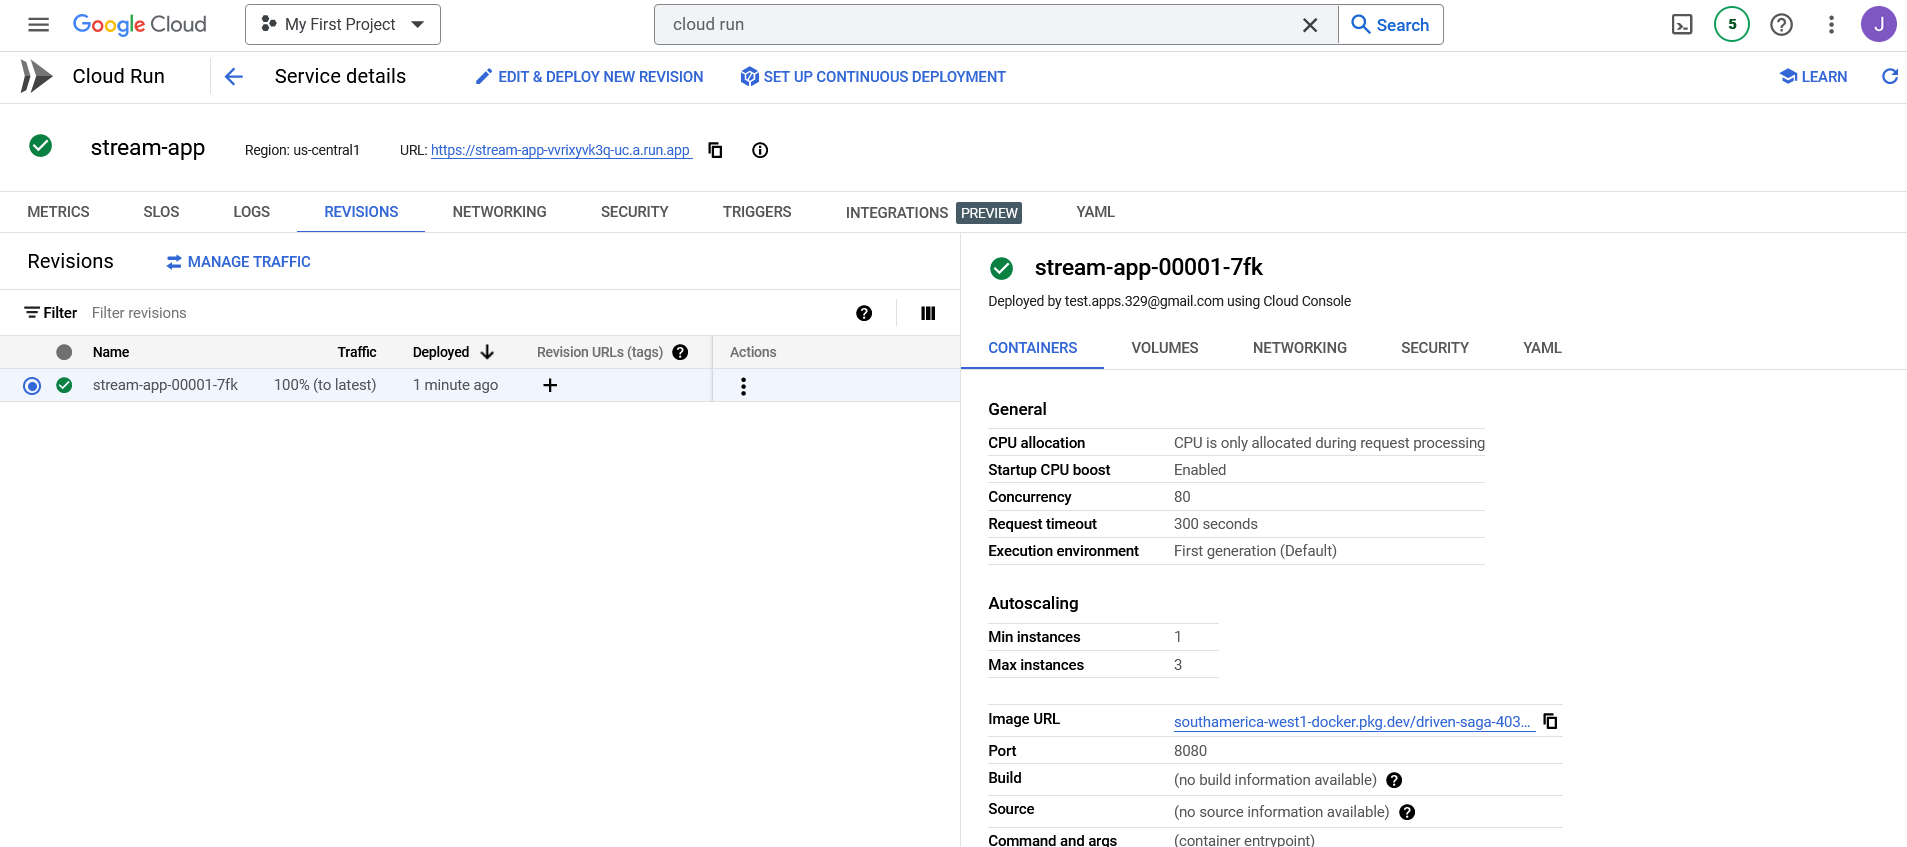
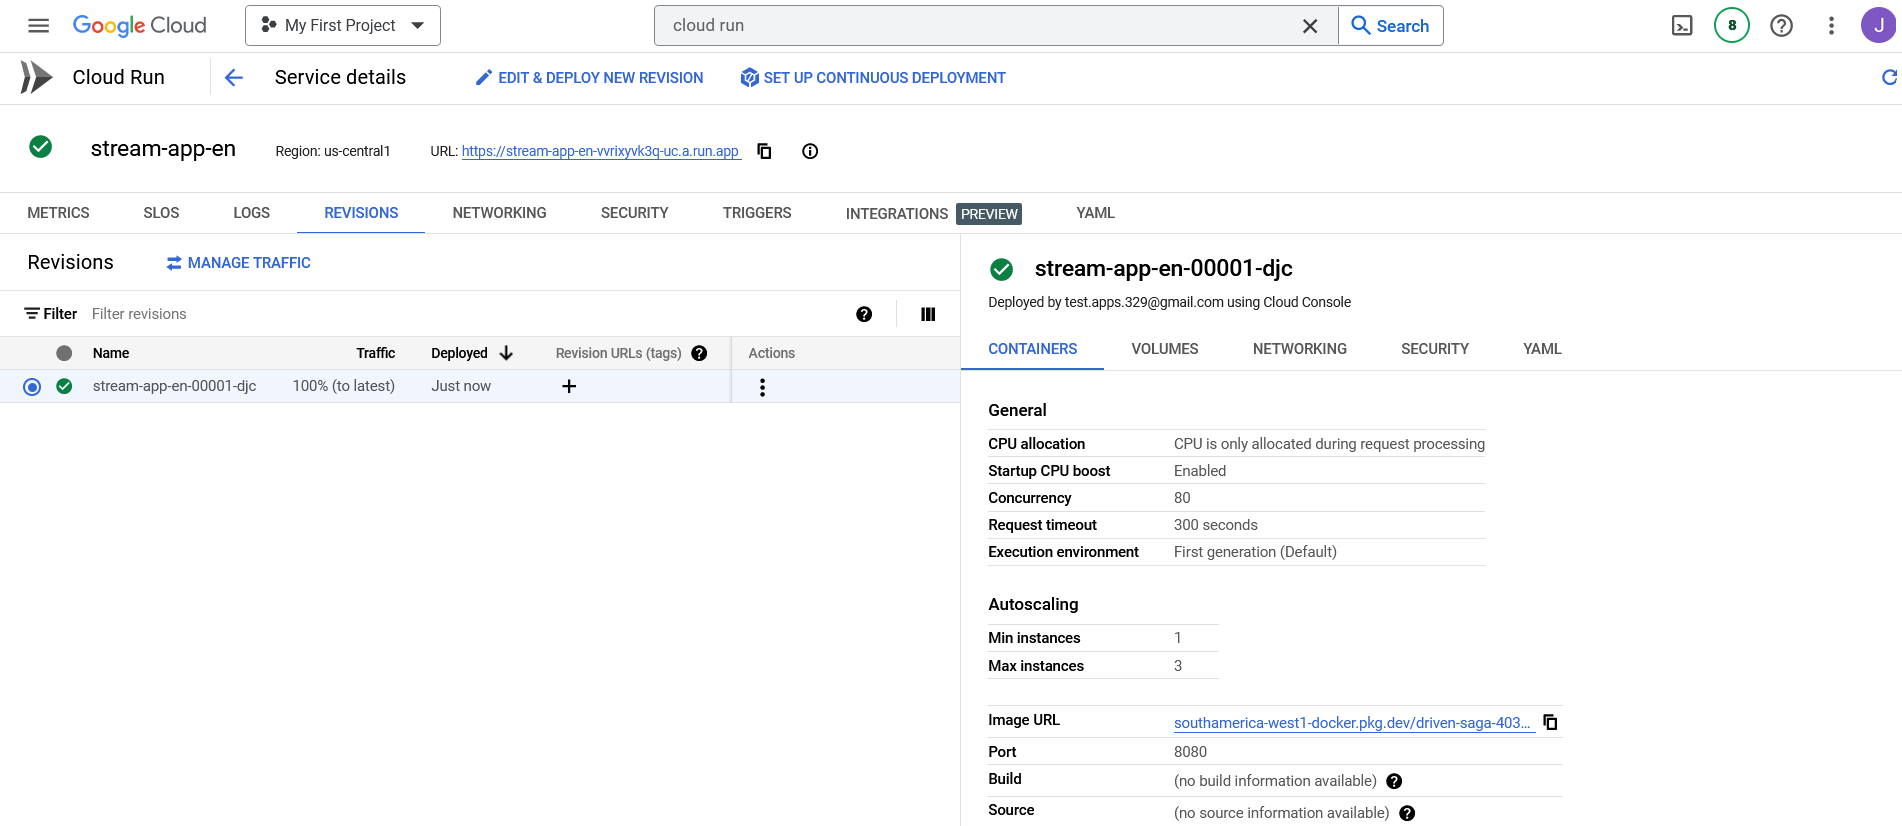
upgrade app and the readme

diff --git a/app_cloud_gcp_py.py b/app_cloud_gcp_py.py
@@ -13,36 +13,36 @@ st.set_page_config(layout="wide")
 
 
 with st.sidebar:
-    selected = menu.option_menu("Streamlit demo", ["Inicio","Analisis datos Austin Trips"], 
+    selected = menu.option_menu("Streamlit demo", ["Home","Austin Trips data analysis"], 
         icons=['house', 'person-rolodex'], menu_icon="cast", default_index=0)
     selected
 
-if selected == "Inicio":
-    st.title("Shiny app demo para ejecutarse en contenedor")
+if selected == "Home":
+    st.title("Streamlit app demo to deploy in Cloud Run")
 
     c=st.empty()
     c.image("docker_1.png")
 
-if selected == "Analisis datos Austin Trips":
+if selected == "Austin Trips data analysis":
     
             
        
-    if st.button("Carga"):
+    if st.button("Load"):
         df = pd.read_csv('trips_austin.csv')
         col1, col2 = st.columns(2)
-        col1.text("Datos del sistema de bicicletas de la ciudad de Austin")
+        col1.text("City of Austin Bike System Data")
         col1.dataframe(df.head(10))
 
         grouped_data = df.groupby('trip_id')['duration_minutes'].sum().reset_index()
         grouped_data = grouped_data.sort_values(by='duration_minutes', ascending=False)
         fig = px.bar(grouped_data, x='trip_id', y='duration_minutes')
-        col2.text("Grafico de la duracion de minutos de los viajes del sistema de bicicleta")
+        col2.text("Bicycle system trip minute duration graph")
         col2.plotly_chart(fig)    
 
         with st.container():
         
             porcentajes = grouped_data['duration_minutes']/grouped_data['duration_minutes'].sum()*100
             grouped_data['percentage'] = porcentajes
-            fig_pie = px.pie(grouped_data, names='trip_id', values='percentage', title='Gráfico de Torta')
-            st.text("Grafico de la duracion de minutos de los viajes del sistema de bicicleta")
+            fig_pie = px.pie(grouped_data, names='trip_id', values='percentage', title='Pie Chart')
+            st.text("Bicycle system trip minute duration graph")
             st.plotly_chart(fig_pie) 

diff --git a/README.md b/README.md
@@ -1,13 +1,12 @@
-# Streamlit_app_docker
+# Streamlit_app_docker_en
 
-Este es un tutorial para ejecutar Streamlit-apps en el servicio Cloud Run de **Google Cloud Platform(GCP)**.Para desplegar una Streamlit-app se utilizaran imagenes docker,la cual primero se testea de forma local y luego se migra al entorno cloud.En este tutorial se asume que ya tienes instalada Docker,sin embargo a continuación te dejo el enlace para la descarga de [Docker](https://www.docker.com/)
+This is a tutorial to run Streamlit-apps in the Cloud Run service of **Google Cloud Platform (GCP)**. To deploy a Streamlit-app, docker images will be used, which are first tested locally and then migrated to the cloud environment. This tutorial assumes that you already have Docker installed, however below I leave you the link to download [Docker](https://www.docker.com/)
 
+## Structure
 
-## Estructura
+The following project considers as main files and elements, the **Dockerfile** file, the **requirements.txt** file and **app_cloud_gcp_py.py**
 
-El siguiente proyecto considera como archivos y elementos principales,el archivo **Dockerfile**,el archivo **requirements.txt** y **app_cloud_gcp_py.py**
-
-El archivo Dockerfile sera con el que construiremos la imagen para luego desplegar en un contenedor,en cambio los otros archivos son necesarios para la ejecución de la Streamlit-app.
+The Dockerfile file will be the one with which we will build the image and then deploy it in a container, however the other files are necessary for the execution of the Streamlit-app.
 
 ``` docker
 - 📁 Streamlit_app_docker
@@ -30,9 +29,9 @@ El archivo Dockerfile sera con el que construiremos la imagen para luego despleg
 
 ### Dockerfile
 
-El archivo docker puede ser modificado segun el tipo de aplicación que
-se utilice.En este caso si deseas seguir trabajando con Streamlit-apps,y
-agregar otras features,puedes agregar las bibliotecas que vayas a utilizar en el **requirements.txt**.
+The docker file can be modified depending on the type of application
+be used.In this case if you want to continue working with Streamlit-apps,and
+add other features, you can add the libraries that you are going to use in the **requirements.txt**.
 
 ``` docker
 # app/Dockerfile
@@ -60,7 +59,7 @@ ENTRYPOINT ["streamlit", "run", "app_cloud_gcp_py.py", "--server.port=8080", "--
 
 ## Build
 
-Para construir la imagen docker llamada **stream_app**,se usa la siguiente linea.
+To build the docker image called **stream_app**, the following line is used.
 
 ``` docker
 docker build -t stream_app .
@@ -68,80 +67,80 @@ docker build -t stream_app .
 
 ## Run
 
-Una vez lista la imagen **stream_app**,ejecutamos la siguiente linea para ejecutar nuestra imagen dentro de un contenedor que tendra expuesto el puerto 8080.
+Once the **stream_app** image is ready, we execute the following line to run our image inside a container that will have port 8080 exposed.
 
 ``` docker
 docker run -d -p 8080:8080 stream_app 
 ```
-## Acceso al contenedor
+## Access to container
 
-Si todos los pasos anteriores se desarrollaron de forma correcta,el contenedor se debe estar ejecutando en la siguiente dirección.
+If all the previous steps were carried out correctly, the container should be running at the following address.
 
 [127.0.0.1:8080](http://127.0.0.1:8080)
 
 
-![Stream-shiny](image_app.png)
+![Stream-app](image_app.png)
 
-## Migrar imagen Docker
+## Push Image
 
-Para migrar la imagen ya construida,primero debemos habilitar el servicio Artifact Registry en Google Cloud Platform.Si lo habilitamos de forma correcta deberiamos ver la siguiente pantalla.
+To migrate the already built image, we must first enable the Artifact Registry service on Google Cloud Platform. If we enable it correctly we should see the following screen.
 
 ![artifact_rgistry_gcp](artifact_registry.png)
 
-Luego en este servicio debemos crear un repositorio,el cual puede ser creado desde la consola de GCP o desde el menu **Create Repository**.
+Then in this service we can create a repository, which can be created from the GCP console or from the **Create Repository** menu.
 
-![crear repositorio](create_repo.png)
+![Create repo](create_repo.png)
 
-Cuando creamos el repositorio elegimos el format como Docker,el mode como standard y la region en este caso la fijare en **southamerica-west1[Santiago]**.
+When we create the repository we choose the format as Docker, the mode as standard and the region in this case I will set it to **southamerica-west1[Santiago]**.
 
-Una vez creado el repositorio configuramos de forma local nuestro docker para poder hacer push o pull a las imagenes.
+Once the repository is created, we configure our docker locally to be able to push or pull the images.
 
 ``` dockerfile
 gcloud auth configure-docker southamerica-west1-docker.pkg.dev
 ```
 
-Luego tenemos que etiquetar a nuestra stream_app con la ruta del directorio del repositorio de imagenes en la nube.
+Then we have to tag our stream_app with the directory path of the cloud image repository.
 
 ``` dockerfile
 docker tag stream_app:latest southamerica-west1-docker.pkg.dev/driven-saga-403916/docker-repo/stream_app:latest
 ```
 
-Una vez etiquetada la imagen,le podemos dar a push a la imagen de nuestra app.
+Once the image has been tagged, we can push the image of our app.
 
 ``` dockerfile
 docker push southamerica-west1-docker.pkg.dev/driven-saga-403916/docker-repo/stream_app:latest
 ```
 
-Si la imagen fue cargada correctamente la podremos ver en el repositorio de Artifact Registry como se ve en la imagen.
+If the image was uploaded correctly we can see it in the Artifact Registry repository as seen in the image.
 
-![imagen en el repo docker](image_repo_docker.png)
+![Image in the Docker Repo](image_repo_docker.png)
 
-Como se ve en la imagen,hay 2 imagenes.La imagen stream_app es la que acabamos de subir,en cambio la que dice shiny_app,es la imagen de una app que subi anteriormente.
+As seen in the image, there are 2 images. The stream_app image is the one we just uploaded, however the one that says shiny_app is the image of an app that I uploaded previously.
 
-## Desplegar con Cloud Run
+## Deploy in Cloud Run
 
-Una vez accedemos al servicio Cloud Run,tenemos que crear un **servicio**, en donde se abrira el siguiente menu.
+Once we access the Cloud Run service, we have to create a **service**, where the following menu will open.
 
-![Configuracion cloud run](cloud_run_1.png)
+![Cloud Run Configuration](cloud_run_1.png)
 
-Desde el menu de configuracion del servicio tenemos que seleccionar en la primera opcion **Container image URL**,la ruta en donde se encuentra nuestra imagen en el repositorio,luego asignamos el **Service Name** y la **Region**.
+From the service configuration menu we have to select in the first option **Container image URL**, the path where our image is located in the repository, then we assign the **Service Name** and the **Region** .
 
-Mas abajo seleccionamos el valor de 1 en la opcion **Minimum number of instances**,para que el primer despliegue no sea tan lento.
+Below we select the value of 1 in the **Minimum number of instances** option, so that the first deployment is not so slow.
 
-Ademas en el menu **Authentication**,seleccionamos la opcion ***Allow unauthenticated invocations***
+Also in the **Authentication** menu, we select the option ***Allow unauthenticated invocations***
 
-Finalmente en el último modulo de configuracion seleccionamos el valor de 8080 en la opcion **Container port**,que corresponde al puerto asignamos en el dockerfile.
+Finally, in the last configuration module we select the value of 8080 in the **Container port** option, which corresponds to the port we assigned in the dockerfile.
 
-Si la imagen se despliega de forma correcta,la deberiamos poder ver como se ve en la imagen.
+If the image is displayed correctly, we should be able to see it as it looks in the image.
 
-![servicio desplegado en cloud run](cloud_run_2.png)
+![Service deploy in cloud run](cloud_run_2.png)
 
-Finalmente si queremos acceder al servicio,podemos entrar al URL que se nos muestra en la imagen.
+Finally, if we want to access the service, we can enter the URL shown in the image.
 
-Se las dejo a continuación.
+I leave them below.
 
-https://stream-app-vvrixyvk3q-uc.a.run.app/
+<https://stream-app-en-vvrixyvk3q-uc.a.run.app/>
 
-Aca se una vista de la stream app.
+Here is a view of the stream app.
 
-![Shiny app desplegada](cloud_run_3.png)
+![Shiny app deploy](cloud_run_3.png)
